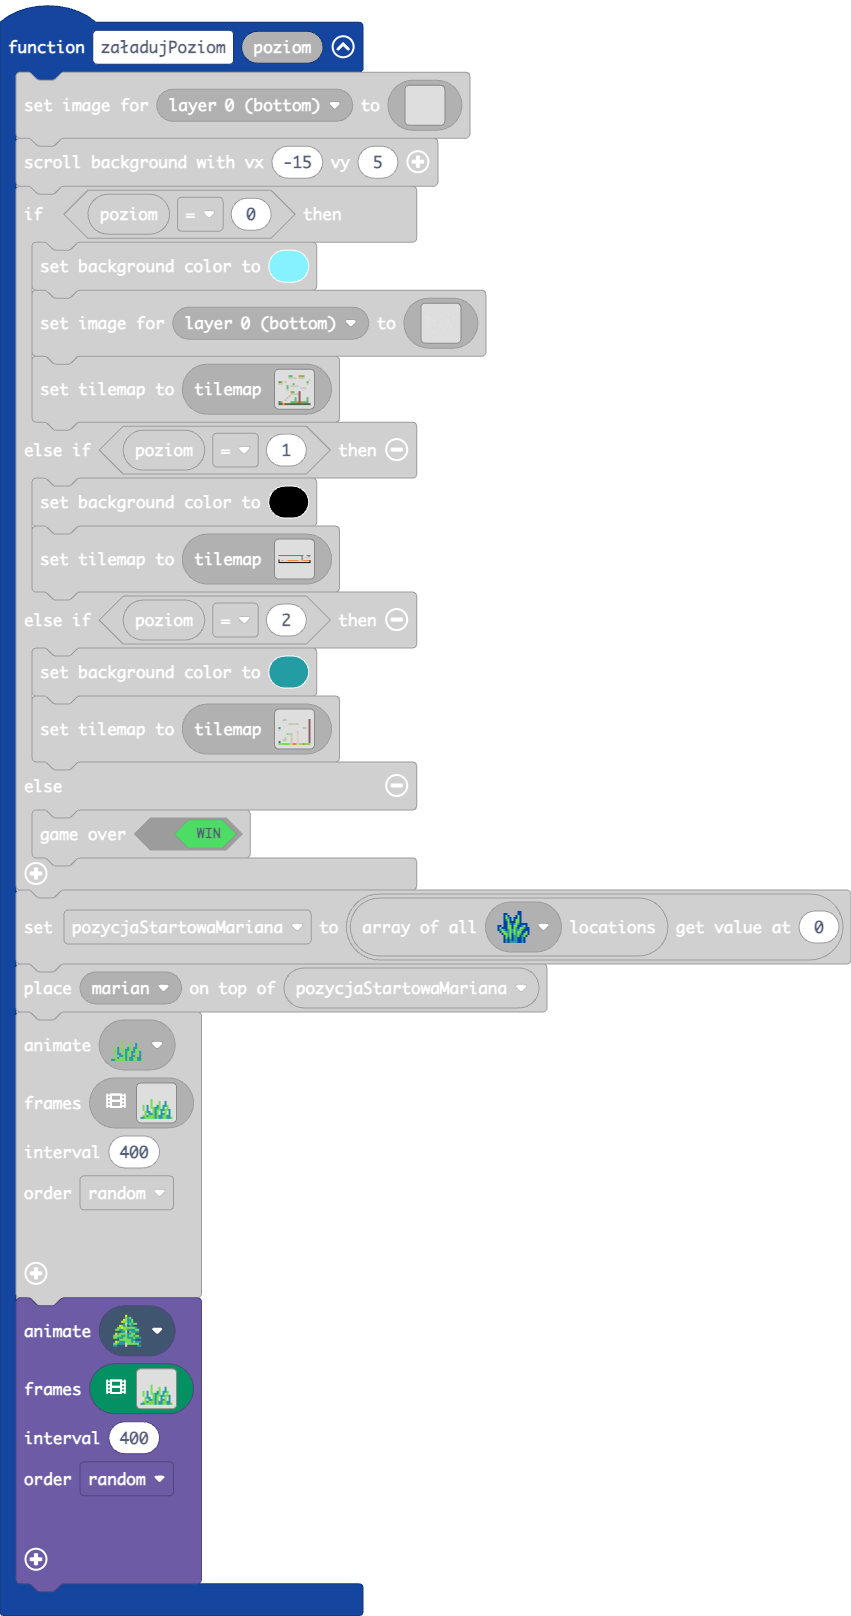
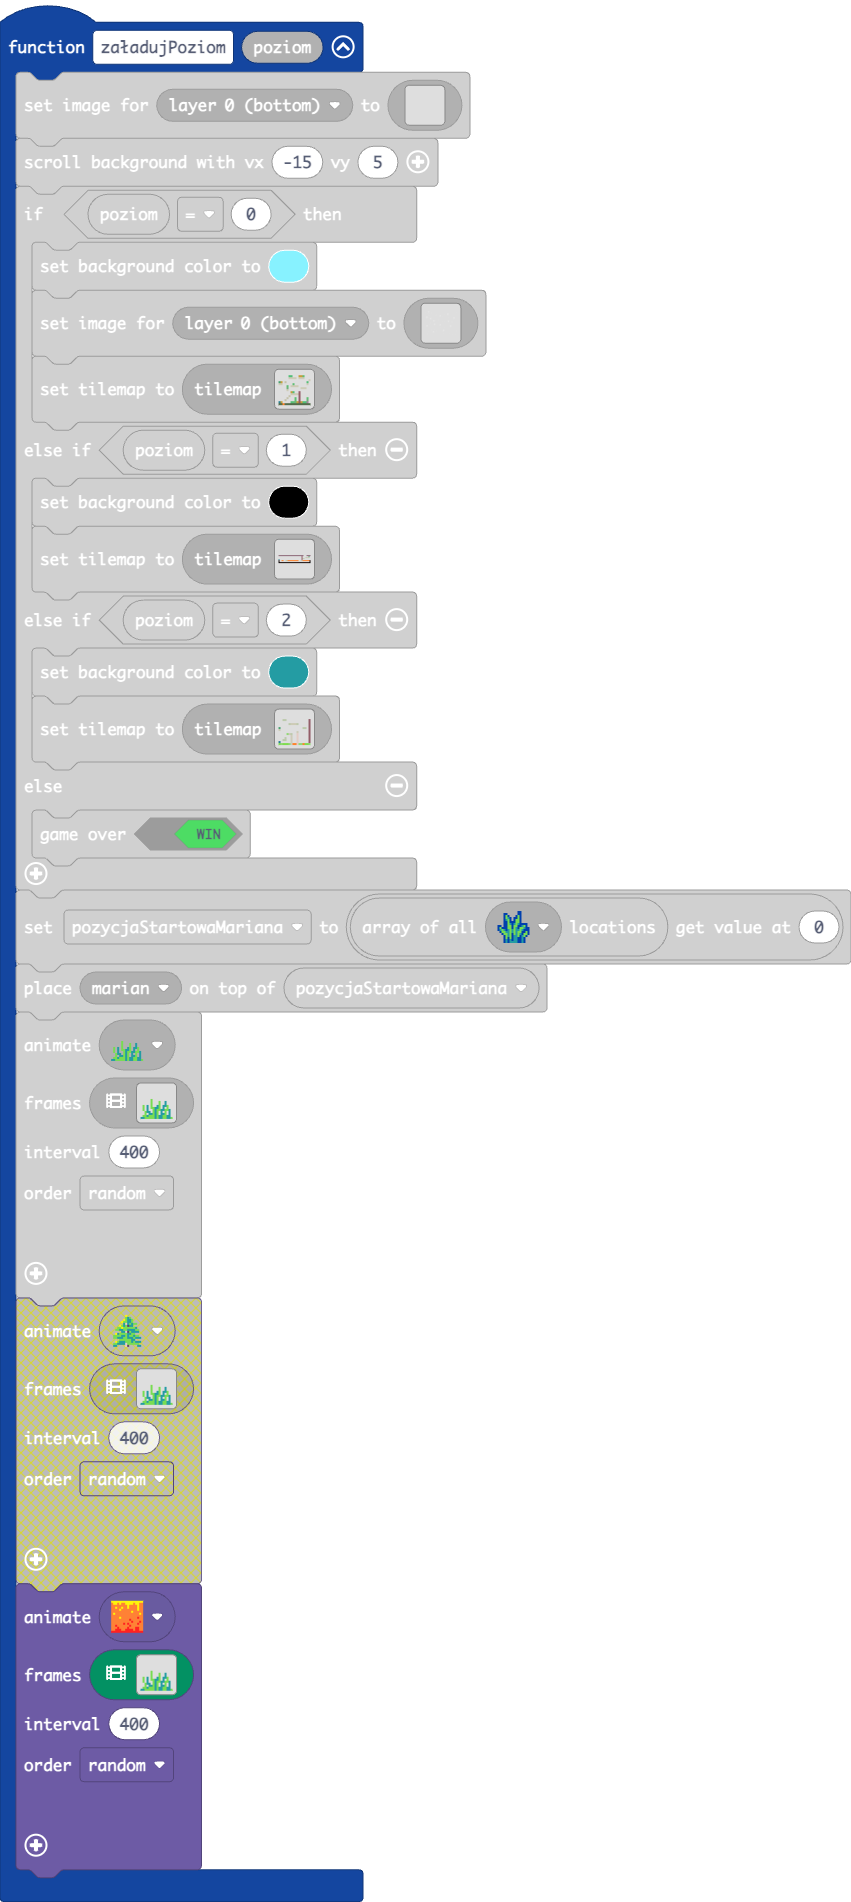
Update main.blocks, main.ts, images.g.jres, images.g.ts

Changed region(s): [[0.0, 0.0, 1.0, 0.9282], [0.0306, 0.9592, 0.4277, 0.9901]]

diff --git a/images.g.ts b/images.g.ts
@@ -837,6 +837,144 @@ f f f f f f f f f f f f f f f f
 f f f f f f f f f f f f f f f f 
 f f f f f f f f f f f f f f f f 
 `];
+            case "aniGrass0":
+            case "anim3":return [img`
+. . . . . . . . . . . . . . . . 
+. . . . . . . . . . . . . . . . 
+. . . . . . . . . . . . . . . . 
+. . . . . . . . . . . . . . . . 
+. . . . . . . . . . . . . . . . 
+. . . . . . . . . . . . . . . . 
+. . . . . 7 . . . . . . . . . . 
+. . . . . 7 . . . 7 . . 6 . . . 
+. . . . . 7 . . . 7 . . 6 . . . 
+. 7 . 6 . 7 . . 6 7 . 6 6 7 . . 
+. 7 . 6 . 7 7 6 6 7 . 6 . 7 . . 
+. 7 . 6 . . 7 6 7 7 6 6 7 7 6 . 
+. . 7 6 6 . 7 6 7 . 6 . 7 . 6 . 
+. . 7 . 6 6 7 6 7 . 6 6 7 . 6 . 
+. 7 7 6 7 7 7 6 7 6 6 7 7 6 6 . 
+6 6 7 7 7 7 7 6 7 6 6 7 7 6 6 7 
+`, img`
+. . . . . . . . . . . . . . . . 
+. . . . . . . . . . . . . . . . 
+. . . . . . . . . . . . . . . . 
+. . . . . . . . . . . . . . . . 
+. . . . . . . . . . . . . . . . 
+. . . . . . . . . . . . . . . . 
+. . . . 7 . . . . . . . . . . . 
+. . . . 7 . . . 7 . . 6 . . . . 
+. . . . 7 . . . 7 . . 6 . . . . 
+7 . 6 . 7 . . 6 7 . 6 6 7 . . . 
+7 . 6 . 7 7 6 6 7 . 6 . 7 . . . 
+7 . 6 . . 7 6 7 7 6 6 7 7 6 . . 
+. 7 6 6 . 7 6 7 . 6 . 7 . 6 . . 
+. . 7 . 6 7 6 7 . . 6 6 7 . 6 . 
+. 7 7 6 7 7 7 6 7 6 6 7 7 6 6 . 
+6 6 7 7 7 7 7 6 7 6 6 7 7 6 6 7 
+`, img`
+. . . . . . . . . . . . . . . . 
+. . . . . . . . . . . . . . . . 
+. . . . . . . . . . . . . . . . 
+. . . . . . . . . . . . . . . . 
+. . . . . . . . . . . . . . . . 
+. . . . . . . . . . . . . . . . 
+. . 7 . . . . . . . . . . . . . 
+. . 7 . . . . 7 . . 6 . . . . . 
+. . . 7 . . . 7 . . 6 . . . . . 
+7 . 6 7 . . 6 7 . 6 6 7 . . . . 
+7 . 6 . 7 7 6 6 7 . 6 . 7 . . . 
+7 . 6 . . 7 6 7 7 6 6 7 7 6 . . 
+. 7 6 6 . 7 6 7 . 6 . 7 . 6 . . 
+. . 7 . 6 7 6 7 . . 6 6 7 . 6 . 
+. 7 7 6 7 7 7 6 7 6 6 7 7 6 6 . 
+6 6 7 7 7 7 7 6 7 6 6 7 7 6 6 7 
+`, img`
+. . . . . . . . . . . . . . . . 
+. . . . . . . . . . . . . . . . 
+. . . . . . . . . . . . . . . . 
+. . . . . . . . . . . . . . . . 
+. . . . . . . . . . . . . . . . 
+. . . . . . . . . . . . . . . . 
+. . . . 7 . . . . . . . . . . . 
+. . . . 7 . . . 7 . . 6 . . . . 
+. . . . 7 . . . 7 . . 6 . . . . 
+7 . 6 . 7 . . 6 7 . 6 6 7 . . . 
+7 . 6 . 7 7 6 6 7 . 6 . 7 . . . 
+7 . 6 . . 7 6 7 7 6 6 7 7 6 . . 
+. 7 6 6 . 7 6 7 . 6 . 7 . 6 . . 
+. . 7 . 6 7 6 7 . . 6 6 7 . 6 . 
+. 7 7 6 7 7 7 6 7 6 6 7 7 6 6 . 
+6 6 7 7 7 7 7 6 7 6 6 7 7 6 6 7 
+`, img`
+. . . . . . . . . . . . . . . . 
+. . . . . . . . . . . . . . . . 
+. . . . . . . . . . . . . . . . 
+. . . . . . . . . . . . . . . . 
+. . . . . . . . . . . . . . . . 
+. . . . . . . . . . . . . . . . 
+. . . . . 7 . . . . . . . . . . 
+. . . . . 7 . . . 7 . . 6 . . . 
+. . . . . 7 . . . 7 . . 6 . . . 
+. 7 . 6 . 7 . . 6 7 . 6 6 7 . . 
+. 7 . 6 . 7 7 6 6 7 . 6 . 7 . . 
+. 7 . 6 . . 7 6 7 7 6 6 7 7 6 . 
+. . 7 6 6 . 7 6 7 . 6 . 7 . 6 . 
+. . 7 . 6 6 7 6 7 . 6 6 7 . 6 . 
+. 7 7 6 7 7 7 6 7 6 6 7 7 6 6 . 
+6 6 7 7 7 7 7 6 7 6 6 7 7 6 6 7 
+`, img`
+. . . . . . . . . . . . . . . . 
+. . . . . . . . . . . . . . . . 
+. . . . . . . . . . . . . . . . 
+. . . . . . . . . . . . . . . . 
+. . . . . . . . . . . . . . . . 
+. . . . . . . . . . . . . . . . 
+. . . . . . 7 . . . . . . . . . 
+. . . . . . 7 . . . 7 . . 6 . . 
+. . . . . . 7 . . . 7 . . 6 . . 
+. . 7 . 6 . 7 . . 6 7 . 6 6 7 . 
+. . 7 . 6 . 7 7 6 6 7 . 6 . 7 . 
+. 7 . 6 . . 7 6 7 7 6 6 7 7 6 . 
+. . 7 6 6 . 7 6 7 . 6 . 7 . 6 . 
+. . 7 . 6 6 7 6 7 . 6 6 7 . 6 . 
+. 7 7 6 7 7 7 6 7 6 6 7 7 6 6 . 
+6 6 7 7 7 7 7 6 7 6 6 7 7 6 6 7 
+`, img`
+. . . . . . . . . . . . . . . . 
+. . . . . . . . . . . . . . . . 
+. . . . . . . . . . . . . . . . 
+. . . . . . . . . . . . . . . . 
+. . . . . . . . . . . . . . . . 
+. . . . . . . . . . . . . . . . 
+. . . . . . . . 7 . . . . . . . 
+. . . . . . . . 7 . . . 7 . 6 . 
+. . . . . . . 7 . . . 7 . . 6 . 
+. . . 7 . 6 . 7 . . 6 7 . 6 6 7 
+. . . 7 . 6 . 7 7 6 6 7 . 6 . 7 
+. . 7 . 6 . . 7 6 7 7 6 6 7 7 6 
+. . . 7 6 6 . 7 6 7 . 6 . 7 . 6 
+. . 7 . 6 6 7 6 . 7 . 6 6 7 6 . 
+. 7 7 6 7 7 7 6 7 6 6 7 7 6 6 . 
+6 6 7 7 7 7 7 6 7 6 6 7 7 6 6 7 
+`, img`
+. . . . . . . . . . . . . . . . 
+. . . . . . . . . . . . . . . . 
+. . . . . . . . . . . . . . . . 
+. . . . . . . . . . . . . . . . 
+. . . . . . . . . . . . . . . . 
+. . . . . . . . . . . . . . . . 
+. . . . . . 7 . . . . . . . . . 
+. . . . . . 7 . . . 7 . . 6 . . 
+. . . . . . 7 . . . 7 . . 6 . . 
+. . 7 . 6 . 7 . . 6 7 . 6 6 7 . 
+. . 7 . 6 . 7 7 6 6 7 . 6 . 7 . 
+. 7 . 6 . . 7 6 7 7 6 6 7 7 6 . 
+. . 7 6 6 . 7 6 7 . 6 . 7 . 6 . 
+. . 7 . 6 6 7 6 7 . 6 6 7 . 6 . 
+. 7 7 6 7 7 7 6 7 6 6 7 7 6 6 . 
+6 6 7 7 7 7 7 6 7 6 6 7 7 6 6 7 
+`];
             case "treeAni":
             case "anim7":return [img`
 . . . . . . 5 . . . . . . . . . 
@@ -992,143 +1130,24 @@ f f f f f f f f f f f f f f f f
 . 7 7 6 6 6 6 d 7 7 7 7 7 7 . . 
 . 6 6 . . . . d c . . . . 6 6 . 
 `];
-            case "aniGrass0":
-            case "anim3":return [img`
+            case "lava":
+            case "anim8":return [img`
 . . . . . . . . . . . . . . . . 
 . . . . . . . . . . . . . . . . 
 . . . . . . . . . . . . . . . . 
 . . . . . . . . . . . . . . . . 
 . . . . . . . . . . . . . . . . 
 . . . . . . . . . . . . . . . . 
-. . . . . 7 . . . . . . . . . . 
-. . . . . 7 . . . 7 . . 6 . . . 
-. . . . . 7 . . . 7 . . 6 . . . 
-. 7 . 6 . 7 . . 6 7 . 6 6 7 . . 
-. 7 . 6 . 7 7 6 6 7 . 6 . 7 . . 
-. 7 . 6 . . 7 6 7 7 6 6 7 7 6 . 
-. . 7 6 6 . 7 6 7 . 6 . 7 . 6 . 
-. . 7 . 6 6 7 6 7 . 6 6 7 . 6 . 
-. 7 7 6 7 7 7 6 7 6 6 7 7 6 6 . 
-6 6 7 7 7 7 7 6 7 6 6 7 7 6 6 7 
-`, img`
+. . . . . . 3 3 3 . . . . . . . 
+. . . . . . 3 . 3 . . . . . . . 
+. . . . . . 3 3 3 . . . . . . . 
 . . . . . . . . . . . . . . . . 
 . . . . . . . . . . . . . . . . 
 . . . . . . . . . . . . . . . . 
 . . . . . . . . . . . . . . . . 
 . . . . . . . . . . . . . . . . 
 . . . . . . . . . . . . . . . . 
-. . . . 7 . . . . . . . . . . . 
-. . . . 7 . . . 7 . . 6 . . . . 
-. . . . 7 . . . 7 . . 6 . . . . 
-7 . 6 . 7 . . 6 7 . 6 6 7 . . . 
-7 . 6 . 7 7 6 6 7 . 6 . 7 . . . 
-7 . 6 . . 7 6 7 7 6 6 7 7 6 . . 
-. 7 6 6 . 7 6 7 . 6 . 7 . 6 . . 
-. . 7 . 6 7 6 7 . . 6 6 7 . 6 . 
-. 7 7 6 7 7 7 6 7 6 6 7 7 6 6 . 
-6 6 7 7 7 7 7 6 7 6 6 7 7 6 6 7 
-`, img`
 . . . . . . . . . . . . . . . . 
-. . . . . . . . . . . . . . . . 
-. . . . . . . . . . . . . . . . 
-. . . . . . . . . . . . . . . . 
-. . . . . . . . . . . . . . . . 
-. . . . . . . . . . . . . . . . 
-. . 7 . . . . . . . . . . . . . 
-. . 7 . . . . 7 . . 6 . . . . . 
-. . . 7 . . . 7 . . 6 . . . . . 
-7 . 6 7 . . 6 7 . 6 6 7 . . . . 
-7 . 6 . 7 7 6 6 7 . 6 . 7 . . . 
-7 . 6 . . 7 6 7 7 6 6 7 7 6 . . 
-. 7 6 6 . 7 6 7 . 6 . 7 . 6 . . 
-. . 7 . 6 7 6 7 . . 6 6 7 . 6 . 
-. 7 7 6 7 7 7 6 7 6 6 7 7 6 6 . 
-6 6 7 7 7 7 7 6 7 6 6 7 7 6 6 7 
-`, img`
-. . . . . . . . . . . . . . . . 
-. . . . . . . . . . . . . . . . 
-. . . . . . . . . . . . . . . . 
-. . . . . . . . . . . . . . . . 
-. . . . . . . . . . . . . . . . 
-. . . . . . . . . . . . . . . . 
-. . . . 7 . . . . . . . . . . . 
-. . . . 7 . . . 7 . . 6 . . . . 
-. . . . 7 . . . 7 . . 6 . . . . 
-7 . 6 . 7 . . 6 7 . 6 6 7 . . . 
-7 . 6 . 7 7 6 6 7 . 6 . 7 . . . 
-7 . 6 . . 7 6 7 7 6 6 7 7 6 . . 
-. 7 6 6 . 7 6 7 . 6 . 7 . 6 . . 
-. . 7 . 6 7 6 7 . . 6 6 7 . 6 . 
-. 7 7 6 7 7 7 6 7 6 6 7 7 6 6 . 
-6 6 7 7 7 7 7 6 7 6 6 7 7 6 6 7 
-`, img`
-. . . . . . . . . . . . . . . . 
-. . . . . . . . . . . . . . . . 
-. . . . . . . . . . . . . . . . 
-. . . . . . . . . . . . . . . . 
-. . . . . . . . . . . . . . . . 
-. . . . . . . . . . . . . . . . 
-. . . . . 7 . . . . . . . . . . 
-. . . . . 7 . . . 7 . . 6 . . . 
-. . . . . 7 . . . 7 . . 6 . . . 
-. 7 . 6 . 7 . . 6 7 . 6 6 7 . . 
-. 7 . 6 . 7 7 6 6 7 . 6 . 7 . . 
-. 7 . 6 . . 7 6 7 7 6 6 7 7 6 . 
-. . 7 6 6 . 7 6 7 . 6 . 7 . 6 . 
-. . 7 . 6 6 7 6 7 . 6 6 7 . 6 . 
-. 7 7 6 7 7 7 6 7 6 6 7 7 6 6 . 
-6 6 7 7 7 7 7 6 7 6 6 7 7 6 6 7 
-`, img`
-. . . . . . . . . . . . . . . . 
-. . . . . . . . . . . . . . . . 
-. . . . . . . . . . . . . . . . 
-. . . . . . . . . . . . . . . . 
-. . . . . . . . . . . . . . . . 
-. . . . . . . . . . . . . . . . 
-. . . . . . 7 . . . . . . . . . 
-. . . . . . 7 . . . 7 . . 6 . . 
-. . . . . . 7 . . . 7 . . 6 . . 
-. . 7 . 6 . 7 . . 6 7 . 6 6 7 . 
-. . 7 . 6 . 7 7 6 6 7 . 6 . 7 . 
-. 7 . 6 . . 7 6 7 7 6 6 7 7 6 . 
-. . 7 6 6 . 7 6 7 . 6 . 7 . 6 . 
-. . 7 . 6 6 7 6 7 . 6 6 7 . 6 . 
-. 7 7 6 7 7 7 6 7 6 6 7 7 6 6 . 
-6 6 7 7 7 7 7 6 7 6 6 7 7 6 6 7 
-`, img`
-. . . . . . . . . . . . . . . . 
-. . . . . . . . . . . . . . . . 
-. . . . . . . . . . . . . . . . 
-. . . . . . . . . . . . . . . . 
-. . . . . . . . . . . . . . . . 
-. . . . . . . . . . . . . . . . 
-. . . . . . . . 7 . . . . . . . 
-. . . . . . . . 7 . . . 7 . 6 . 
-. . . . . . . 7 . . . 7 . . 6 . 
-. . . 7 . 6 . 7 . . 6 7 . 6 6 7 
-. . . 7 . 6 . 7 7 6 6 7 . 6 . 7 
-. . 7 . 6 . . 7 6 7 7 6 6 7 7 6 
-. . . 7 6 6 . 7 6 7 . 6 . 7 . 6 
-. . 7 . 6 6 7 6 . 7 . 6 6 7 6 . 
-. 7 7 6 7 7 7 6 7 6 6 7 7 6 6 . 
-6 6 7 7 7 7 7 6 7 6 6 7 7 6 6 7 
-`, img`
-. . . . . . . . . . . . . . . . 
-. . . . . . . . . . . . . . . . 
-. . . . . . . . . . . . . . . . 
-. . . . . . . . . . . . . . . . 
-. . . . . . . . . . . . . . . . 
-. . . . . . . . . . . . . . . . 
-. . . . . . 7 . . . . . . . . . 
-. . . . . . 7 . . . 7 . . 6 . . 
-. . . . . . 7 . . . 7 . . 6 . . 
-. . 7 . 6 . 7 . . 6 7 . 6 6 7 . 
-. . 7 . 6 . 7 7 6 6 7 . 6 . 7 . 
-. 7 . 6 . . 7 6 7 7 6 6 7 7 6 . 
-. . 7 6 6 . 7 6 7 . 6 . 7 . 6 . 
-. . 7 . 6 6 7 6 7 . 6 6 7 . 6 . 
-. 7 7 6 7 7 7 6 7 6 6 7 7 6 6 . 
-6 6 7 7 7 7 7 6 7 6 6 7 7 6 6 7 
 `];
         }
         return null;

diff --git a/main.ts b/main.ts
@@ -376,7 +376,7 @@ function załadujPoziom (poziom: number) {
     TileAnimationOrder.Random
     )
     tilesExtra.runTileAnimation(
-    assets.tile`tree1`,
+    assets.tile`myTile4`,
     assets.animation`aniGrass0`,
     400,
     TileAnimationOrder.Random
